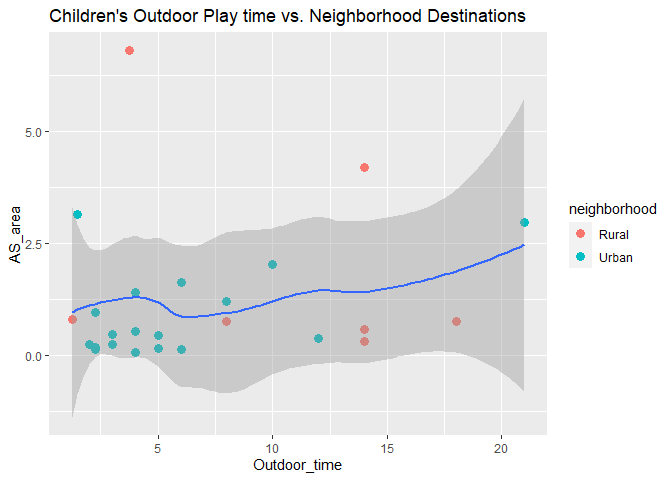
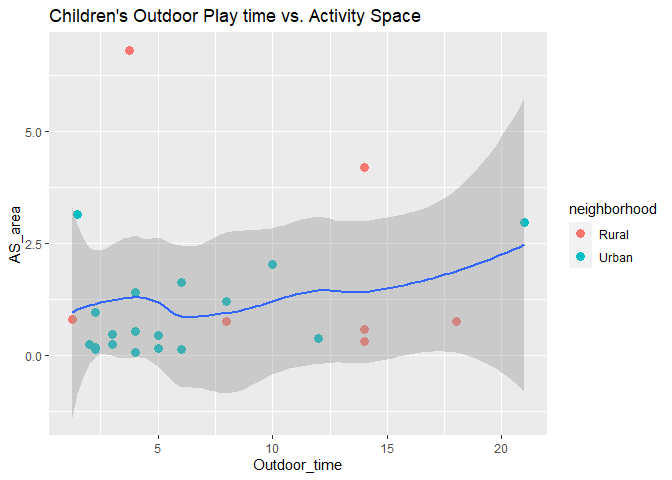
revised

Changed region(s): [[0.4688, 0.0, 0.7812, 0.0625]]

diff --git a/ExitProject.md b/ExitProject.md
@@ -144,20 +144,6 @@ head(Children)
 
 ``` r
 Children %>% 
-  ggplot(mapping = aes(x = AS_area, y = total_des, na.rm = TRUE)) + 
-  geom_point(mapping = aes(color = neighborhood), size = 3) +
-  geom_smooth()+
-  labs(title = "Children's Activity Space vs. Neighborhood Destinations")
-```
-
-![](ExitProject_files/figure-gfm/unnamed-chunk-10-1.png)<!-- -->
-
-``` r
-ggsave(file = "~/R/ExitProject/Figures/ASvsND.png" )
-```
-
-``` r
-Children %>% 
   filter(!is.na(Longest_dis)) %>% 
   ggplot(mapping = aes(x = AS_area, y = Longest_dis)) + 
   geom_point(mapping = aes(color = ActivitySpace_Shape, shape = neighborhood), size = 3) +
@@ -165,10 +151,24 @@ Children %>%
   labs(title = "Children's Activity Space vs. Longest Home-to-destination Distances")
 ```
 
-![](ExitProject_files/figure-gfm/unnamed-chunk-11-1.png)<!-- -->
+![](ExitProject_files/figure-gfm/unnamed-chunk-10-1.png)<!-- -->
 
 ``` r
 ggsave(file = "~/R/ExitProject/Figures/ASvsHDD.png" )
+```
+
+``` r
+Children %>% 
+  ggplot(mapping = aes(x = AS_area, y = total_des, na.rm = TRUE)) + 
+  geom_point(mapping = aes(color = neighborhood), size = 3) +
+  geom_smooth()+
+  labs(title = "Children's Activity Space vs. Neighborhood Destinations")
+```
+
+![](ExitProject_files/figure-gfm/unnamed-chunk-11-1.png)<!-- -->
+
+``` r
+ggsave(file = "~/R/ExitProject/Figures/ASvsND.png" )
 ```
 
 ``` r
@@ -177,7 +177,7 @@ Children %>%
   ggplot(mapping = aes(x = Outdoor_time, y = AS_area, na.rm = TRUE)) + 
   geom_point(mapping = aes(color = neighborhood), size = 3) +
   geom_smooth()+
-  labs(title = "Children's Outdoor Play time vs. Neighborhood Destinations")
+  labs(title = "Children's Outdoor Play time vs. Activity Space")
 ```
 
 ![](ExitProject_files/figure-gfm/unnamed-chunk-12-1.png)<!-- -->
